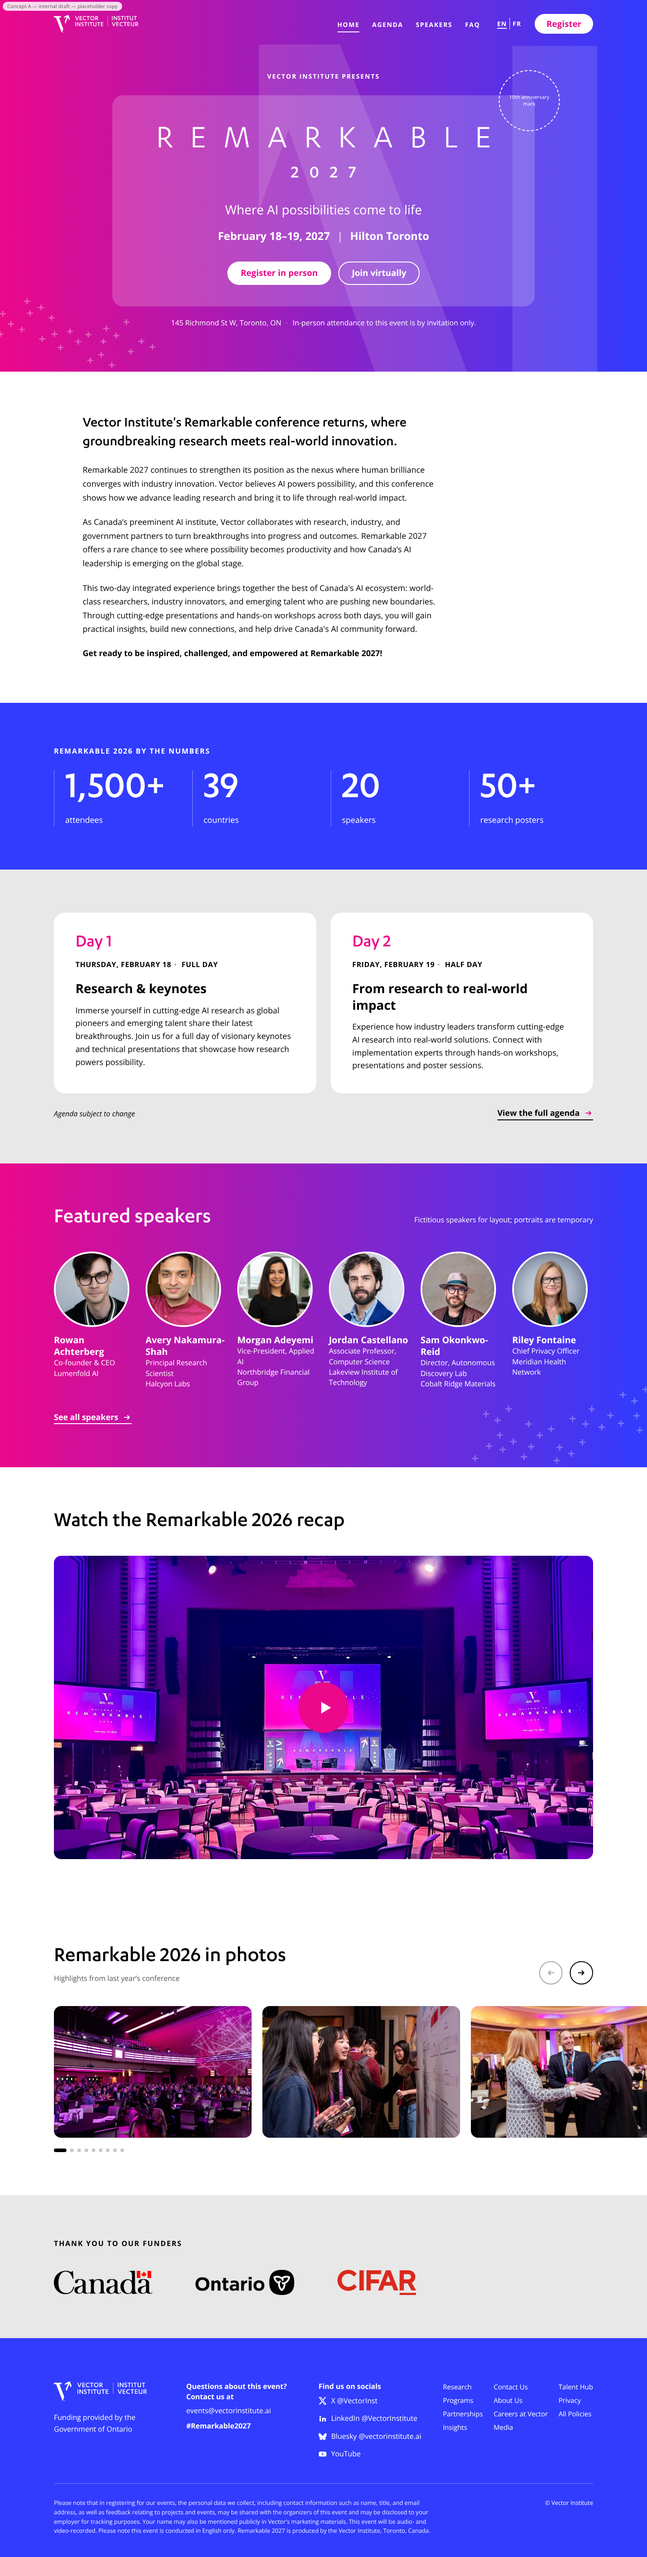
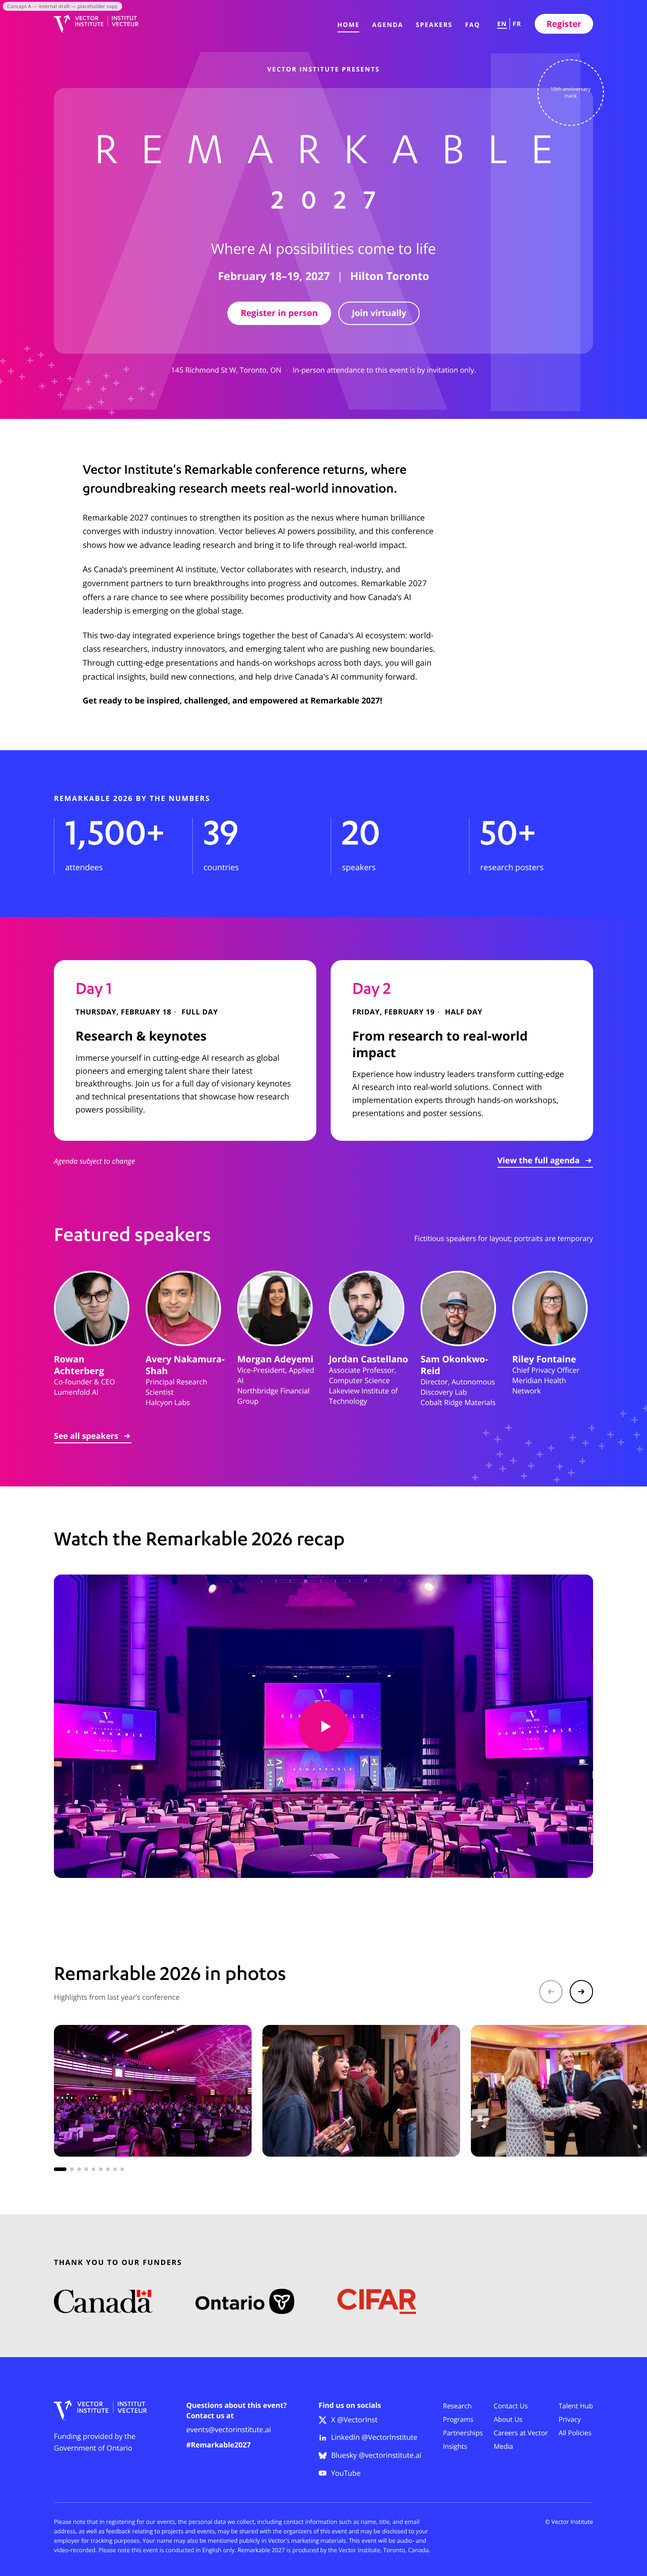
Concept A: splashier pass
- Hero becomes a full-height opener: overlay box spans the content width,
  REMARKABLE at 104px and 2027 at 64px (both letter-spaced), larger tagline
- 2026 AI letterform enlarged to fill the hero, centred behind the wordmark
  as on the 2026 title slide
- Day cards move onto the gradient (solid white cards, since 20% overlay
  cards fail AA for body text) and join the speakers band as one
  continuous gradient stage

Claude-Session: https://claude.ai/code/session_01QHLJ7kJGXyzQ6wJmqeLoD2

diff --git a/mockups/concept-a/concept.css b/mockups/concept-a/concept.css
@@ -1,8 +1,9 @@
 /* Concept A, "Gradient Stage".
    Colour plan, section by section (max two brand colours each):
-     nav + hero, page headers, speakers teaser ... horizontal magenta->cobalt gradient, white type
+     nav + hero, page headers ................... horizontal magenta->cobalt gradient, white type
      stats ...................................... cobalt, white numbers (solid, never gradient)
-     days, speakers page, funders ............... grey with white cards / keylines, magenta accents
+     days + speakers teaser ..................... one continuous gradient "stage": white day cards, white keylines
+     speakers page, funders ..................... grey with white keylines, magenta / cobalt accents
      agenda, faq, recap, gallery ................ white with magenta / cobalt accents
      footer ..................................... cobalt (from base)
    Graphic elements: the 2026 "AI" letterform (hero only) and the plus pattern (corners of gradient bands only).
@@ -24,9 +25,11 @@
 
 /* ---------- Home hero ---------- */
 .hero { position: relative; overflow: hidden; background: var(--vi-gradient); color: var(--vi-white); }
-.hero::before { /* faint 2026 "AI" letterform, white, behind and to the right */
-  content: ""; position: absolute; right: -4%; top: -12%; width: 64%; height: 128%;
-  background: url("../../assets/brand-elements/ai-letterform-2026.png") no-repeat 70% 50% / cover;
+.hero::before { /* faint 2026 "AI" letterform, white, filling the hero behind the wordmark (as on the 2026 title slide).
+                   The glyphs sit at 44% across the PNG, so the box is shifted to centre them. */
+  content: ""; position: absolute; left: 50%; top: 50%; width: 1760px; aspect-ratio: 2500 / 1406;
+  transform: translate(-44%, -50%);
+  background: url("../../assets/brand-elements/ai-letterform-2026.png") no-repeat center / contain;
   filter: brightness(0) invert(1); opacity: 0.12; pointer-events: none;
 }
 .hero::after { /* plus pattern, left cluster, bottom-left corner */
@@ -34,24 +37,25 @@
   background: var(--a-plus) no-repeat 0 calc(-554px * var(--s)) / calc(2500px * var(--s)) auto;
   filter: brightness(0) invert(1); opacity: 0.35; pointer-events: none;
 }
-.a-hero__inner { position: relative; z-index: 1; display: flex; flex-direction: column; align-items: center; text-align: center; padding-top: var(--space-8); padding-bottom: var(--space-12); }
+.a-hero__inner { position: relative; z-index: 1; min-height: 820px; display: flex; flex-direction: column; justify-content: center; align-items: center; text-align: center; padding-top: var(--space-6); padding-bottom: var(--space-12); }
 .a-hero__eyebrow { margin-bottom: var(--space-4); }
 .a-box {
-  position: relative; width: 100%; max-width: 940px;
-  padding: var(--space-8) var(--space-8) var(--space-6);
+  position: relative; width: 100%;
+  padding: var(--space-12) var(--space-6) var(--space-8);
   background: var(--vi-overlay-fill); border-radius: var(--vi-overlay-radius);
   display: flex; flex-direction: column; align-items: center; gap: var(--space-3);
 }
 /* Letter-spaced wordmark, as on the 2026 stage and title slides. Trailing tracking is cancelled so it centres. */
 .a-wordmark { display: flex; flex-direction: column; align-items: center; gap: var(--space-2); font-family: var(--font-heading); font-weight: 400; text-transform: uppercase; line-height: 1; }
-.a-wordmark__name { font-size: 76px; letter-spacing: 0.5em; margin-right: -0.5em; }
-.a-wordmark__year { font-size: 40px; letter-spacing: 0.6em; margin-right: -0.6em; font-weight: 500; }
-.a-box__tagline { font: 400 28px/1.3 var(--font-body); margin-top: var(--space-2); }
+.a-wordmark { gap: var(--space-3); }
+.a-wordmark__name { font-size: 104px; letter-spacing: 0.5em; margin-right: -0.5em; }
+.a-wordmark__year { font-size: 64px; letter-spacing: 0.6em; margin-right: -0.6em; font-weight: 500; }
+.a-box__tagline { font: 400 32px/1.3 var(--font-body); margin-top: var(--space-3); }
 .a-box .hero__meta { margin: 0; font-size: 24px; }
 .a-box .cta-row { justify-content: center; margin-top: var(--space-2); }
 .a-hero__fine { margin-top: var(--space-3); font-size: 16px; }
 /* 10th-anniversary mark: empty dashed circle on the box's top-right corner */
-.a-anniv { position: absolute; top: -56px; right: -56px; width: 136px; border-radius: 50%; border-color: var(--vi-white); color: var(--vi-white); align-items: center; opacity: 1; }
+.a-anniv { position: absolute; top: -64px; right: -24px; width: 148px; border-radius: 50%; border-color: var(--vi-white); color: var(--vi-white); align-items: center; opacity: 1; }
 .a-anniv .anniv__label { padding: 0 14px; text-align: center; line-height: 1.3; }
 
 /* ---------- Inner-page header band ---------- */
@@ -72,10 +76,12 @@
 .stat__value { font-size: 88px; }
 .stat { border-left: 1px solid rgba(255, 255, 255, 0.45); padding-left: var(--space-3); }
 
-/* ---------- Day cards: white on grey ---------- */
-.days { background: var(--vi-grey); }
-.day { background: var(--vi-white); }
+/* ---------- Day cards: solid white cards on the gradient (20% overlay cards would fail AA for body text) ---------- */
+.days { background: var(--vi-gradient); color: var(--vi-white); padding-bottom: var(--space-8); }
+.day { background: var(--vi-white); color: var(--vi-black); }
 .day__label { color: var(--vi-magenta); }
+.days .more-link .arrow-icon { color: var(--vi-white); }
+.days + .speakers--teaser { padding-top: var(--space-8); } /* the two bands read as one stage */
 
 /* ---------- Speakers teaser: gradient band, white keylines ---------- */
 .speakers--teaser { position: relative; overflow: hidden; background: var(--vi-gradient); color: var(--vi-white); }
@@ -111,13 +117,14 @@
 
 /* ---------- Mobile ---------- */
 @media (max-width: 640px) {
-  .hero::before { right: -30%; top: 2%; width: 120%; height: 60%; }
+  .hero::before { width: 860px; top: 46%; }
   .hero::after { display: none; } /* no free corner on a 390 hero; the letterform carries it */
-  .a-hero__inner { padding-top: var(--space-4); padding-bottom: var(--space-8); }
+  .a-hero__inner { min-height: 680px; padding-top: var(--space-4); padding-bottom: var(--space-8); }
   .a-hero__eyebrow { margin-bottom: var(--space-6); font-size: 13px; }
-  .a-box { padding: var(--space-8) var(--space-3) var(--space-4); gap: var(--space-2); }
-  .a-wordmark__name { font-size: 25px; letter-spacing: 0.4em; margin-right: -0.4em; }
-  .a-wordmark__year { font-size: 24px; letter-spacing: 0.5em; margin-right: -0.5em; }
+  .a-box { padding: var(--space-8) var(--space-2) var(--space-4); gap: var(--space-2); }
+  .a-wordmark { gap: var(--space-2); }
+  .a-wordmark__name { font-size: 29px; letter-spacing: 0.32em; margin-right: -0.32em; }
+  .a-wordmark__year { font-size: 34px; letter-spacing: 0.45em; margin-right: -0.45em; }
   .a-box__tagline { font-size: 24px; }
   .a-box .hero__meta { font-size: 20px; }
   .a-box .cta-row { width: 100%; }
